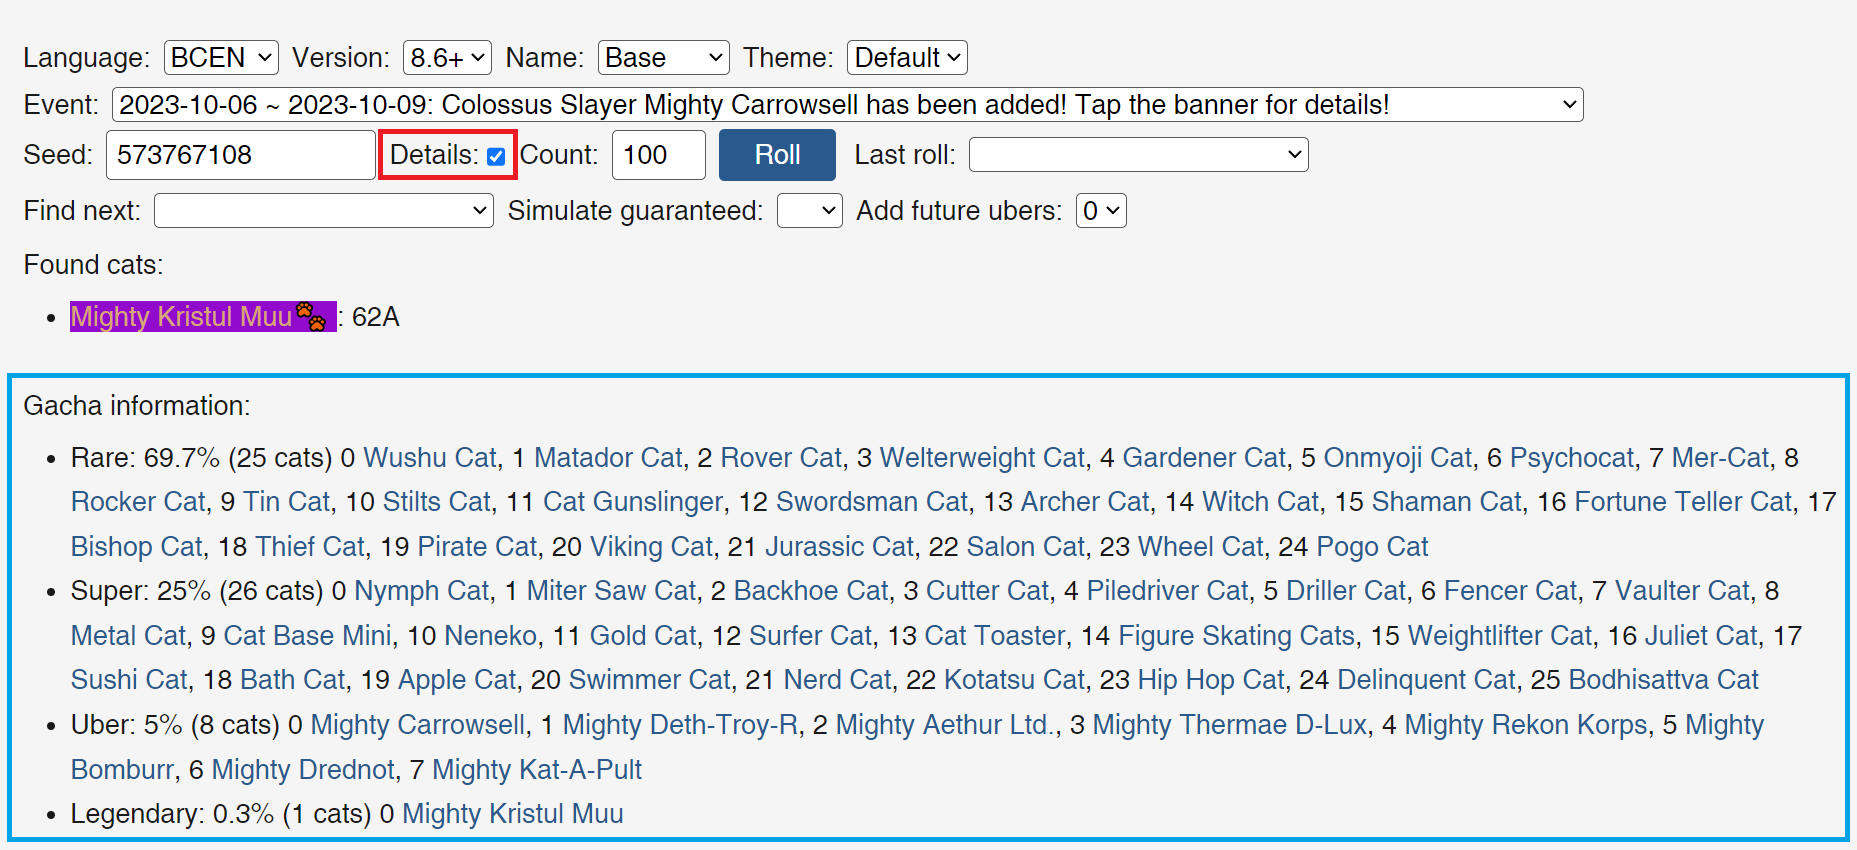
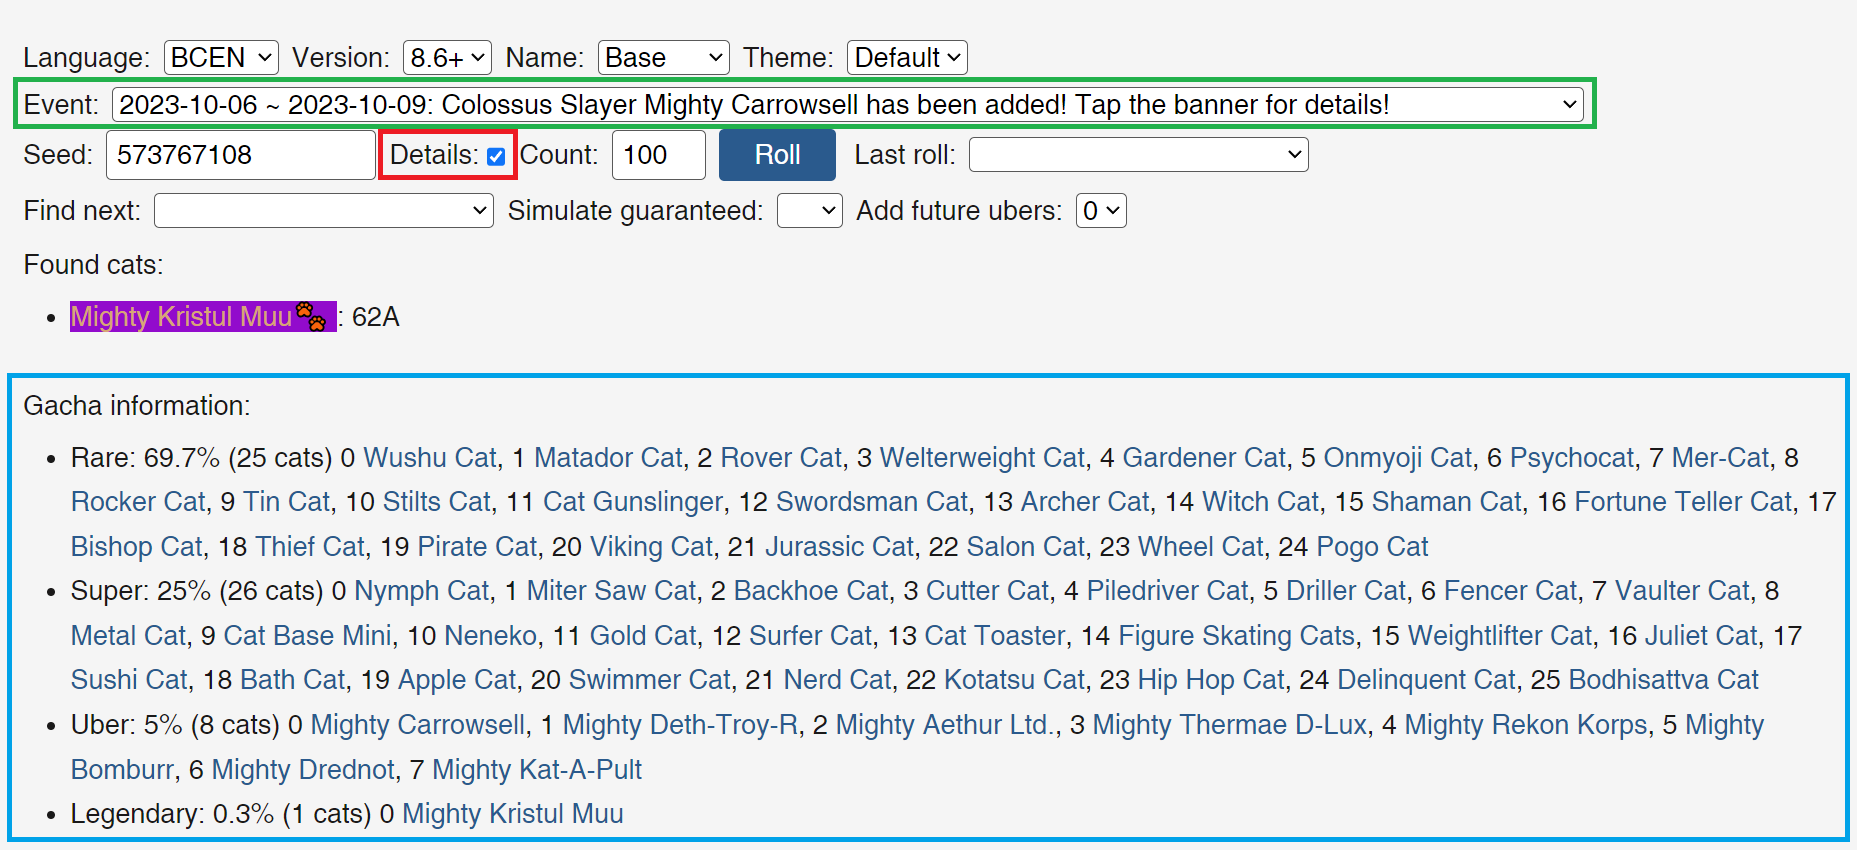
Make instructions clearer

Changed region(s): [[0.0, 0.0918, 0.8745, 0.1529]]

diff --git a/src/RarePage.tsx b/src/RarePage.tsx
@@ -221,6 +221,12 @@ const RarePage = () => {
             />
           </li>
           <li>
+            Select the{" "}
+            <span style={{ border: "3px solid #22B14C" }}>
+              banner you rolled on.
+            </span>
+          </li>
+          <li>
             Check the <span style={{ border: "3px solid red" }}>Details</span>{" "}
             box, if not already checked, to bring up the in-depth{" "}
             <span style={{ border: "3px solid #00A2E8" }}>
